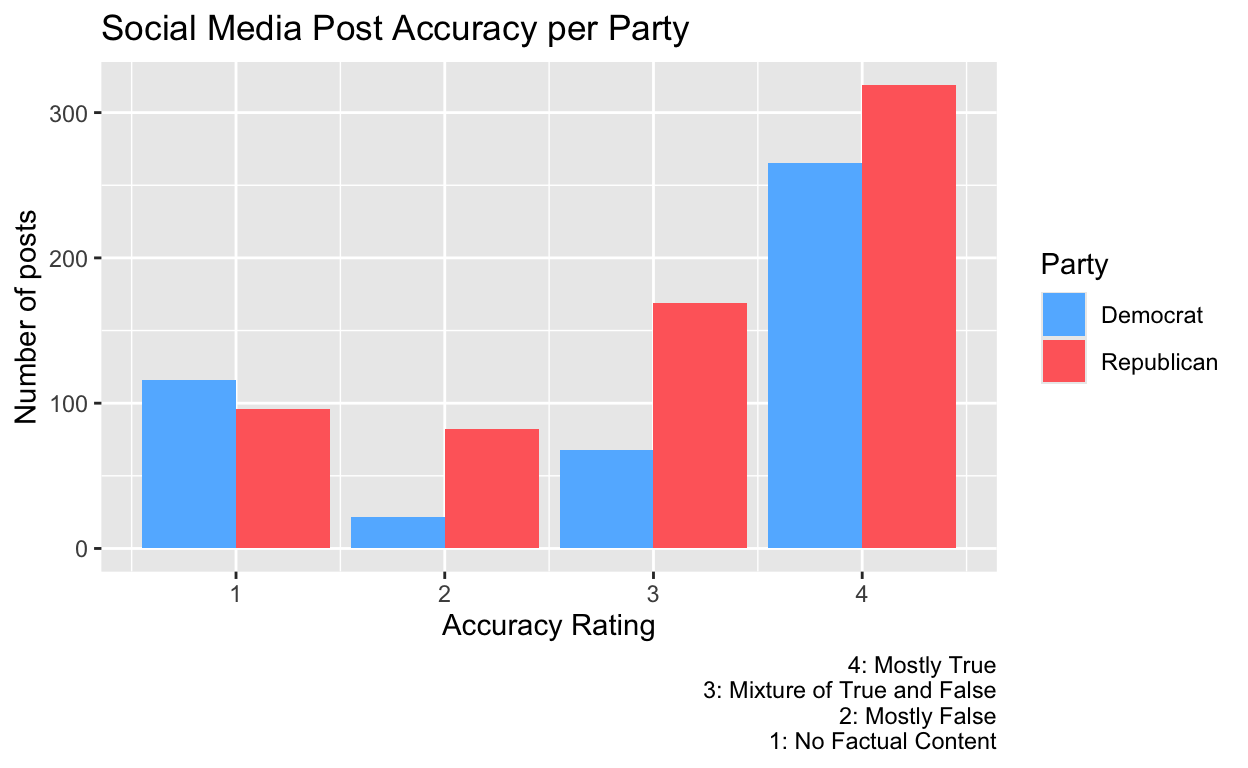
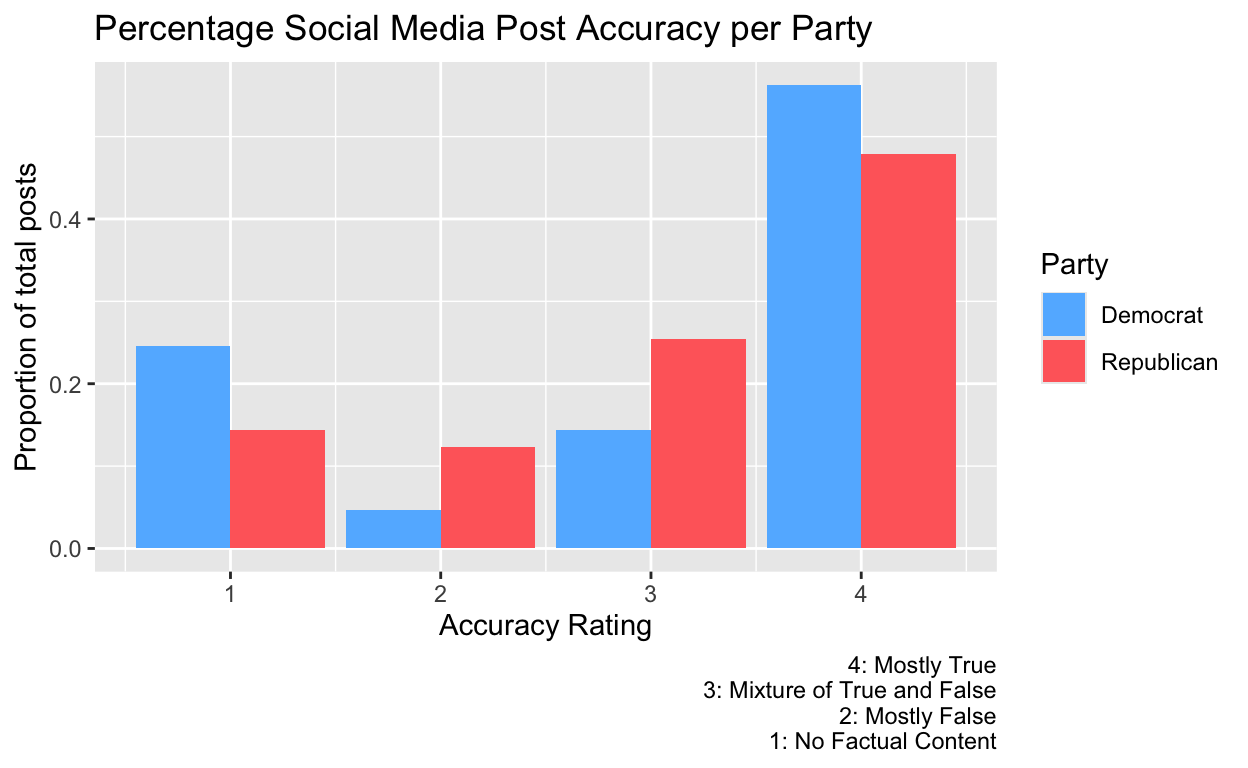
12/10 Working on Linear Regression

diff --git a/index.html b/index.html
@@ -1578,9 +1578,9 @@ code span.wa { color: #5e5e5e; font-style: italic; } /* Warning */
 <li><p>Mostly False: Most or all of the information in the post or in the link being shared is inaccurate. This should also be used when the central claim being made is false.</p></li>
 <li><p>No Factual Content: This rating is used for posts that are pure opinion, comics, satire, or any other posts that do not make a factual claim. This is also the category to use for posts that are of the “Like this if you think…” variety.</p></li>
 </ol>
-<p>To disprove my hypothesis, the amount of inaccurate posts created by Democratic accounts would have to be greater than that of Republican accounts</p>
-<p>This bar plot shows the relationship between Party and accuracy of social media posts. For each accuracy category (4 being the most accurate, 1 being the least), the plot displays the number of posts that fall under this category for each party.</p>
-<p>Count the number of posts of each party for each of the accuracy classifications.</p>
+<p>To disprove my hypothesis, the percentage of inaccurate posts created by Democratic accounts would have to be greater than that of Republican accounts</p>
+<p>This bar plot shows the relationship between Party and accuracy of social media posts. For each accuracy category (4 being the most accurate, 1 being the least), the plot displays the percentage of total posts that fall under this category for each party.</p>
+<p>Count the percentage of total posts that fall under each accuracy classification for each party.</p>
 <div class="layout-chunk" data-layout="l-body">
 <div class="sourceCode">
 <pre class="sourceCode r"><code class="sourceCode r"><span><span class='va'>parties</span> <span class='op'>&lt;-</span> <span class='va'>facebook</span> <span class='op'>|&gt;</span></span>
@@ -1592,22 +1592,23 @@ code span.wa { color: #5e5e5e; font-style: italic; } /* Warning */
 <span>           <span class='va'>Rating</span> <span class='op'>==</span> <span class='st'>"mostly false"</span> <span class='op'>~</span> <span class='fl'>2</span>,</span>
 <span>           <span class='va'>Rating</span> <span class='op'>==</span> <span class='st'>"no factual content"</span> <span class='op'>~</span> <span class='fl'>1</span><span class='op'>)</span><span class='op'>)</span></span>
 <span><span class='va'>party_accuracy</span> <span class='op'>&lt;-</span> <span class='va'>parties</span> <span class='op'>|&gt;</span></span>
-<span>  <span class='fu'><a href='https://dplyr.tidyverse.org/reference/group_by.html'>group_by</a></span><span class='op'>(</span><span class='va'>Party</span>, <span class='va'>accuracy_rating</span><span class='op'>)</span> <span class='op'>|&gt;</span></span>
-<span>  <span class='fu'><a href='https://dplyr.tidyverse.org/reference/summarise.html'>summarize</a></span><span class='op'>(</span>n <span class='op'>=</span> <span class='fu'><a href='https://dplyr.tidyverse.org/reference/context.html'>n</a></span><span class='op'>(</span><span class='op'>)</span><span class='op'>)</span></span>
+<span>  <span class='fu'><a href='https://dplyr.tidyverse.org/reference/group_by.html'>group_by</a></span><span class='op'>(</span><span class='va'>Party</span>, <span class='va'>accuracy_rating</span><span class='op'>)</span>  <span class='op'>|&gt;</span></span>
+<span>  <span class='fu'><a href='https://dplyr.tidyverse.org/reference/summarise.html'>summarize</a></span><span class='op'>(</span>n <span class='op'>=</span> <span class='fu'><a href='https://dplyr.tidyverse.org/reference/context.html'>n</a></span><span class='op'>(</span><span class='op'>)</span><span class='op'>)</span> <span class='op'>|&gt;</span> </span>
+<span>  <span class='fu'><a href='https://dplyr.tidyverse.org/reference/mutate.html'>mutate</a></span><span class='op'>(</span>n <span class='op'>=</span> <span class='fu'><a href='https://dplyr.tidyverse.org/reference/if_else.html'>if_else</a></span><span class='op'>(</span><span class='va'>Party</span> <span class='op'>==</span> <span class='st'>"Democrat"</span>, <span class='va'>n</span><span class='op'>/</span><span class='fl'>471</span>, <span class='va'>n</span><span class='op'>/</span><span class='fl'>666</span><span class='op'>)</span><span class='op'>)</span> </span>
 <span><span class='va'>party_accuracy</span></span></code></pre>
 </div>
 <pre><code># A tibble: 8 × 3
 # Groups:   Party [2]
-  Party      accuracy_rating     n
-  &lt;chr&gt;                &lt;dbl&gt; &lt;int&gt;
-1 Democrat                 1   116
-2 Democrat                 2    22
-3 Democrat                 3    68
-4 Democrat                 4   265
-5 Republican               1    96
-6 Republican               2    82
-7 Republican               3   169
-8 Republican               4   319</code></pre>
+  Party      accuracy_rating      n
+  &lt;chr&gt;                &lt;dbl&gt;  &lt;dbl&gt;
+1 Democrat                 1 0.246 
+2 Democrat                 2 0.0467
+3 Democrat                 3 0.144 
+4 Democrat                 4 0.563 
+5 Republican               1 0.144 
+6 Republican               2 0.123 
+7 Republican               3 0.254 
+8 Republican               4 0.479 </code></pre>
 </div>
 <p>Now that the data is organized by party and accuracy rating, this is a bar graph comparing the results.</p>
 <div class="layout-chunk" data-layout="l-body">
@@ -1616,9 +1617,9 @@ code span.wa { color: #5e5e5e; font-style: italic; } /* Warning */
 <span>  <span class='fu'><a href='https://ggplot2.tidyverse.org/reference/ggplot.html'>ggplot</a></span><span class='op'>(</span><span class='fu'><a href='https://ggplot2.tidyverse.org/reference/aes.html'>aes</a></span><span class='op'>(</span>x <span class='op'>=</span> <span class='va'>accuracy_rating</span>, y <span class='op'>=</span> <span class='va'>n</span><span class='op'>)</span><span class='op'>)</span> <span class='op'>+</span></span>
 <span>  <span class='fu'><a href='https://ggplot2.tidyverse.org/reference/geom_bar.html'>geom_bar</a></span><span class='op'>(</span>stat <span class='op'>=</span> <span class='st'>"identity"</span>, <span class='fu'><a href='https://ggplot2.tidyverse.org/reference/aes.html'>aes</a></span><span class='op'>(</span>fill <span class='op'>=</span> <span class='va'>Party</span><span class='op'>)</span>, position <span class='op'>=</span> <span class='fu'><a href='https://ggplot2.tidyverse.org/reference/position_dodge.html'>position_dodge</a></span><span class='op'>(</span><span class='op'>)</span><span class='op'>)</span> <span class='op'>+</span></span>
 <span>  <span class='fu'><a href='https://ggplot2.tidyverse.org/reference/scale_manual.html'>scale_fill_manual</a></span><span class='op'>(</span>values <span class='op'>=</span> <span class='fu'><a href='https://rdrr.io/r/base/c.html'>c</a></span><span class='op'>(</span><span class='st'>"Democrat"</span> <span class='op'>=</span> <span class='st'>"steelblue1"</span>, <span class='st'>"Republican"</span> <span class='op'>=</span> <span class='st'>"indianred1"</span><span class='op'>)</span><span class='op'>)</span> <span class='op'>+</span></span>
-<span>  <span class='fu'><a href='https://ggplot2.tidyverse.org/reference/labs.html'>labs</a></span><span class='op'>(</span>title <span class='op'>=</span> <span class='st'>"Social Media Post Accuracy per Party"</span>, </span>
+<span>  <span class='fu'><a href='https://ggplot2.tidyverse.org/reference/labs.html'>labs</a></span><span class='op'>(</span>title <span class='op'>=</span> <span class='st'>"Percentage Social Media Post Accuracy per Party"</span>, </span>
 <span>  x <span class='op'>=</span> <span class='st'>"Accuracy Rating"</span>, </span>
-<span>  y <span class='op'>=</span> <span class='st'>"Number of posts"</span>, </span>
+<span>  y <span class='op'>=</span> <span class='st'>"Proportion of total posts"</span>, </span>
 <span>  caption <span class='op'>=</span> <span class='st'>"4: Mostly True</span></span>
 <span><span class='st'>       3: Mixture of True and False</span></span>
 <span><span class='st'>       2: Mostly False</span></span>
@@ -1628,7 +1629,8 @@ code span.wa { color: #5e5e5e; font-style: italic; } /* Warning */
 <p><img src="index_files/figure-html5/unnamed-chunk-3-1.png" width="624" /></p>
 </div>
 <h1 id="results-scatterplot-barplot-or-boxplot-with-regression-and-paragraph-summarizing-results">Results: scatterplot, barplot or boxplot with regression and paragraph summarizing results</h1>
-<p>To answer my research question, I was incorrect and my hypothesis proven wrong. On average, the media produced by the Republican Party received a higher accuracy rating than the media produced by the Democratic Party.</p>
+<p>To better visualize the results, I have added a linear regression of the data by creating a binary variable to represent Party. Because I have set the Democrat value to ‘1’ and the Republican value to ‘0’, a positive value would indicate higher average ratings for the Republican Party, and a negative value would indicate the opposite, higher average ratings for the Democratic Party.</p>
+<p>Table summarizing the Average Accuracy Rating for each Party.</p>
 <div class="layout-chunk" data-layout="l-body">
 <div class="sourceCode">
 <pre class="sourceCode r"><code class="sourceCode r"><span><span class='va'>analysis</span> <span class='op'>&lt;-</span> <span class='va'>parties</span> <span class='op'>|&gt;</span></span>
@@ -1655,8 +1657,37 @@ code span.wa { color: #5e5e5e; font-style: italic; } /* Warning */
 </tbody>
 </table>
 </div>
+<p>Linear Regression analyzing the relationship between Partisan Affiliation and Accuracy of social media posts.</p>
+<div class="layout-chunk" data-layout="l-body">
+<div class="sourceCode">
+<pre class="sourceCode r"><code class="sourceCode r"><span><span class='va'>parties</span> <span class='op'>&lt;-</span> <span class='va'>parties</span> <span class='op'>|&gt;</span></span>
+<span>  <span class='fu'><a href='https://dplyr.tidyverse.org/reference/mutate.html'>mutate</a></span><span class='op'>(</span>PartyBinary <span class='op'>=</span> <span class='fu'><a href='https://dplyr.tidyverse.org/reference/if_else.html'>if_else</a></span><span class='op'>(</span><span class='va'>Party</span> <span class='op'>==</span> <span class='st'>"Republican"</span>, <span class='fl'>1</span>, <span class='fl'>0</span><span class='op'>)</span><span class='op'>)</span></span>
+<span><span class='va'>model</span> <span class='op'>&lt;-</span> <span class='fu'><a href='https://rdrr.io/r/stats/lm.html'>lm</a></span><span class='op'>(</span><span class='va'>accuracy_rating</span> <span class='op'>~</span> <span class='va'>PartyBinary</span>, data <span class='op'>=</span> <span class='va'>parties</span><span class='op'>)</span></span>
+<span><span class='fu'><a href='https://rdrr.io/r/base/summary.html'>summary</a></span><span class='op'>(</span><span class='va'>model</span><span class='op'>)</span></span></code></pre>
+</div>
+<pre><code>
+Call:
+lm(formula = accuracy_rating ~ PartyBinary, data = parties)
+
+Residuals:
+    Min      1Q  Median      3Q     Max 
+-2.0676 -1.0676  0.9324  0.9324  0.9767 
+
+Coefficients:
+            Estimate Std. Error t value Pr(&gt;|t|)    
+(Intercept)  3.02335    0.05355  56.464   &lt;2e-16 ***
+PartyBinary  0.04421    0.06996   0.632    0.528    
+---
+Signif. codes:  0 &#39;***&#39; 0.001 &#39;**&#39; 0.01 &#39;*&#39; 0.05 &#39;.&#39; 0.1 &#39; &#39; 1
+
+Residual standard error: 1.162 on 1135 degrees of freedom
+Multiple R-squared:  0.0003517, Adjusted R-squared:  -0.000529 
+F-statistic: 0.3994 on 1 and 1135 DF,  p-value: 0.5275</code></pre>
+</div>
+<p>The results of the linear regression indicate the average accuracy rating for the Democratic party is 3.023, as this is the Intercept, and the Democratic party was assigned the value ‘0’. The PartyBinary coefficient of 0.04421 indicates</p>
+<p>To answer my research question, I was incorrect and my hypothesis proven wrong. On average, the media produced by the Republican Party received a slightly higher accuracy rating on average than the media produced by the Democratic Party.</p>
 <h1 id="conclusion">Conclusion</h1>
-<div class="sourceCode" id="cb3"><pre class="sourceCode r distill-force-highlighting-css"><code class="sourceCode r"></code></pre></div>
+<div class="sourceCode" id="cb4"><pre class="sourceCode r distill-force-highlighting-css"><code class="sourceCode r"></code></pre></div>
 <!--radix_placeholder_article_footer-->
 <!--/radix_placeholder_article_footer-->
 </div>
